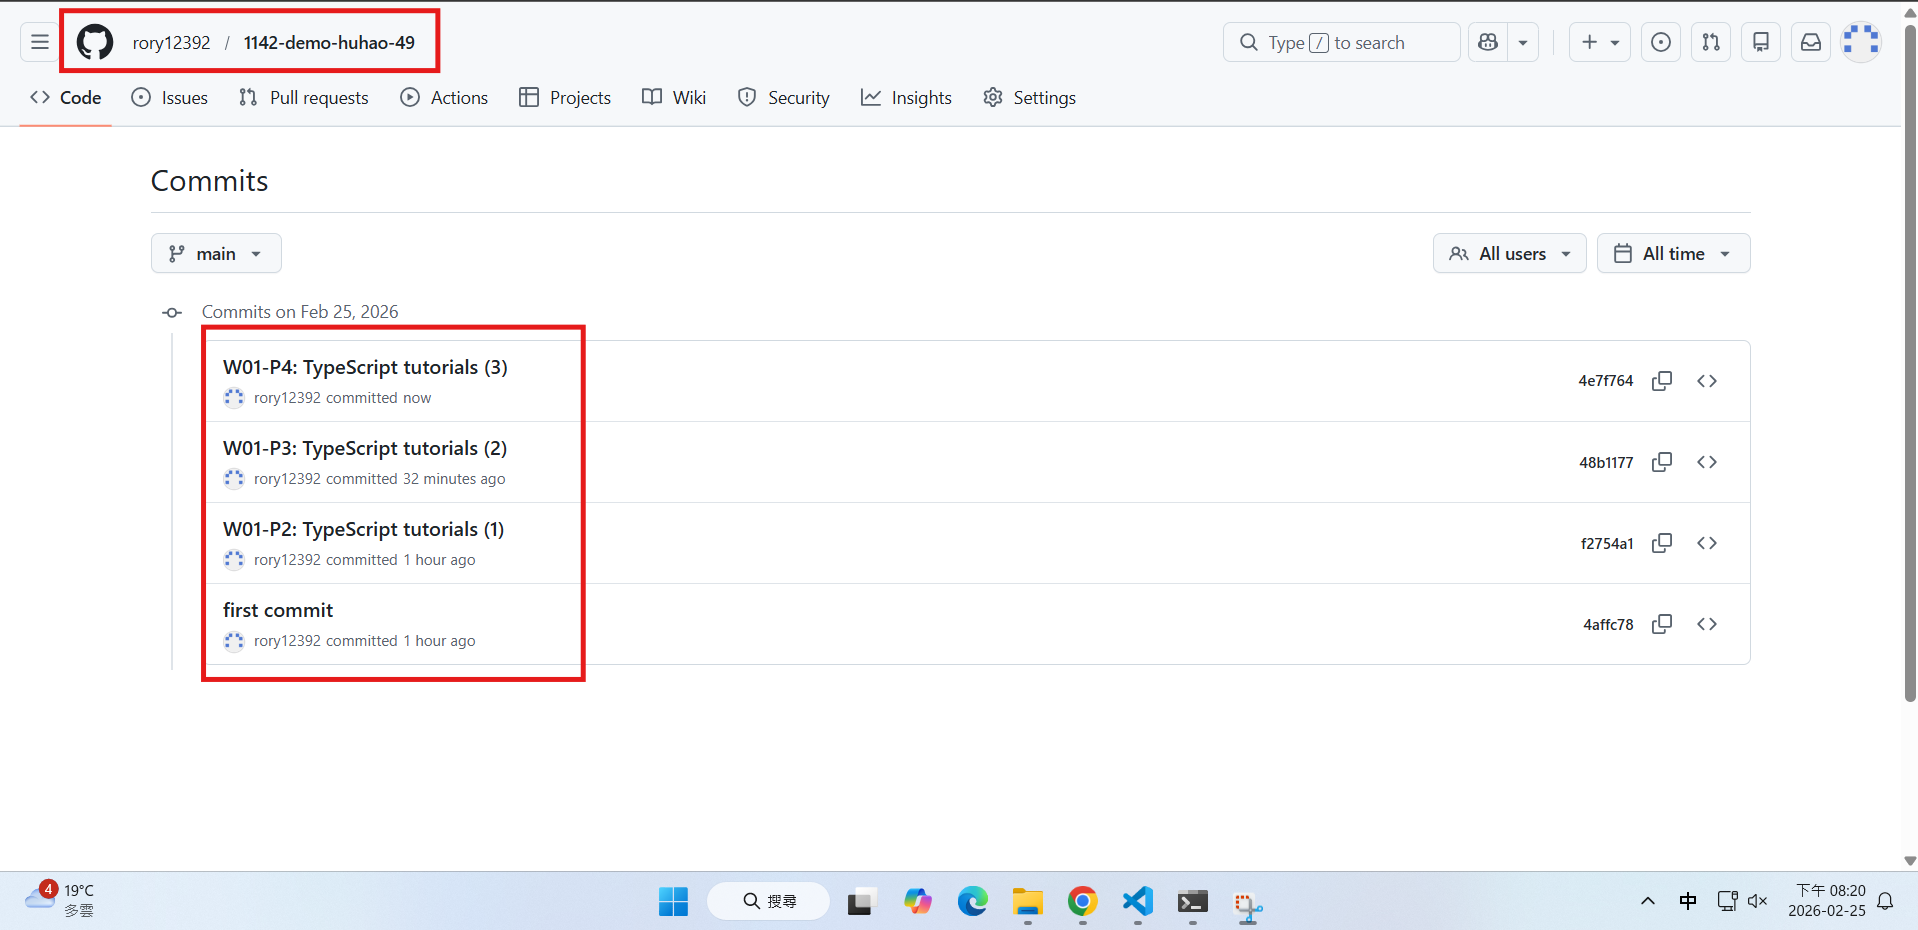
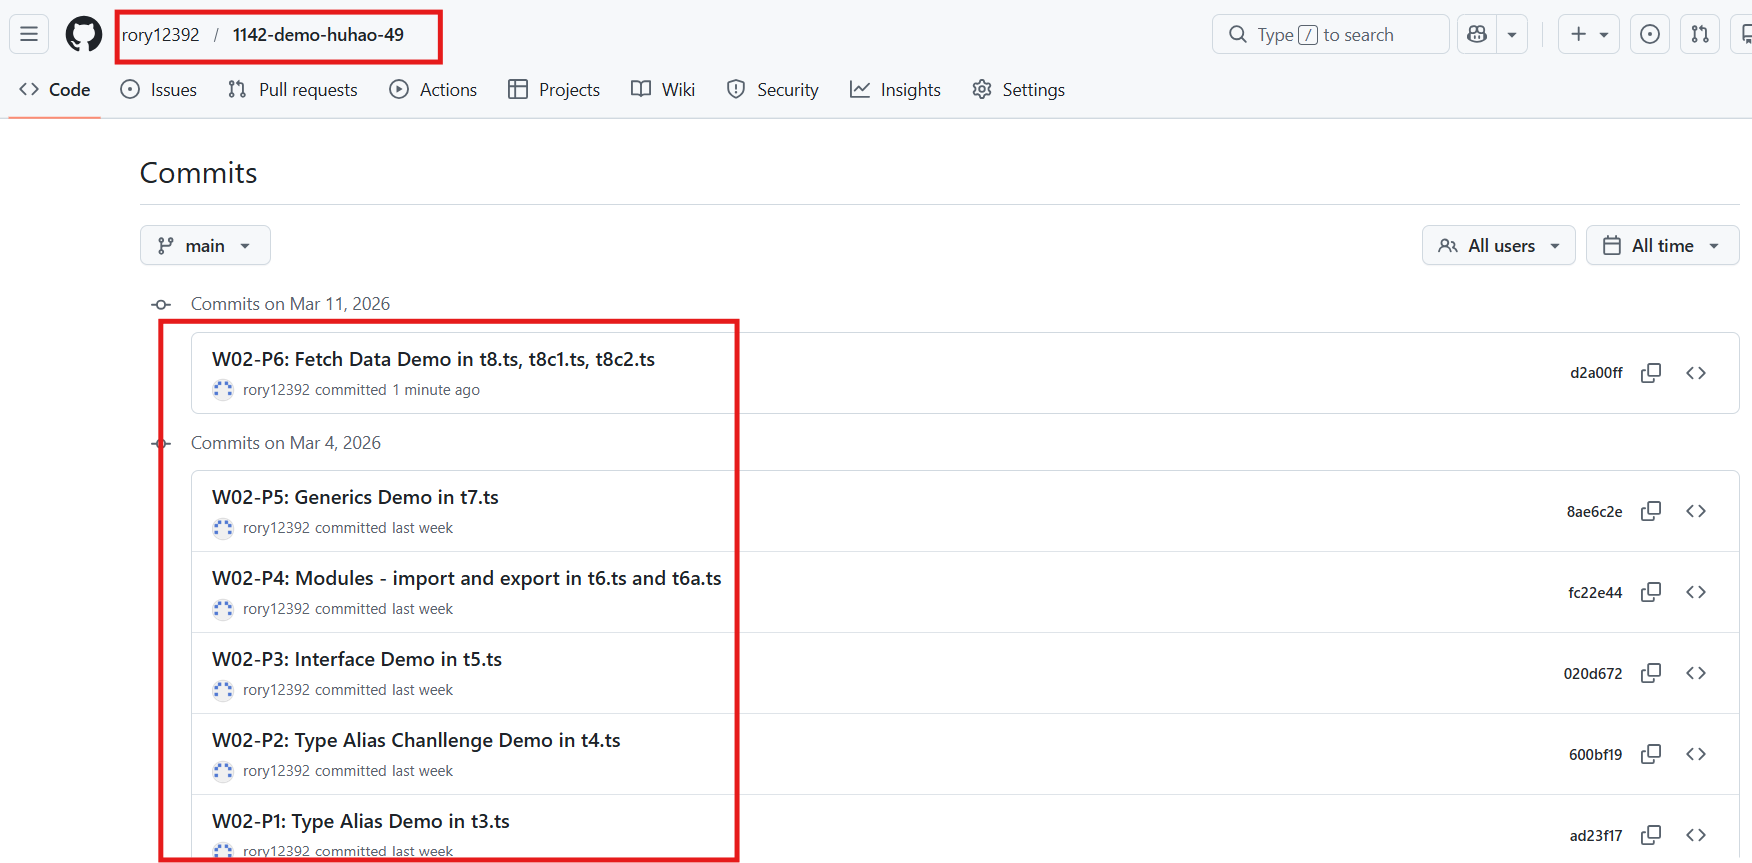
W02-logs: git logs of W02

diff --git a/demo/md/w02_typescrip_49/w02-typescrip-49.md b/demo/md/w02_typescrip_49/w02-typescrip-49.md
@@ -61,7 +61,7 @@ fc22e44 rory12392 Wed Mar 4 20:21:47 2026 +0800 W02-P4: Modules - import and exp
 ![](w02-p6-3.png)
 
 ```
-
+d2a00ff rory12392 Wed Mar 11 18:47:13 2026 +0800 W02-P6: Fetch Data Demo in t8.ts, t8c1.ts, t8c2.ts
 ```
 
 ### W02-logs: git logs of W02
